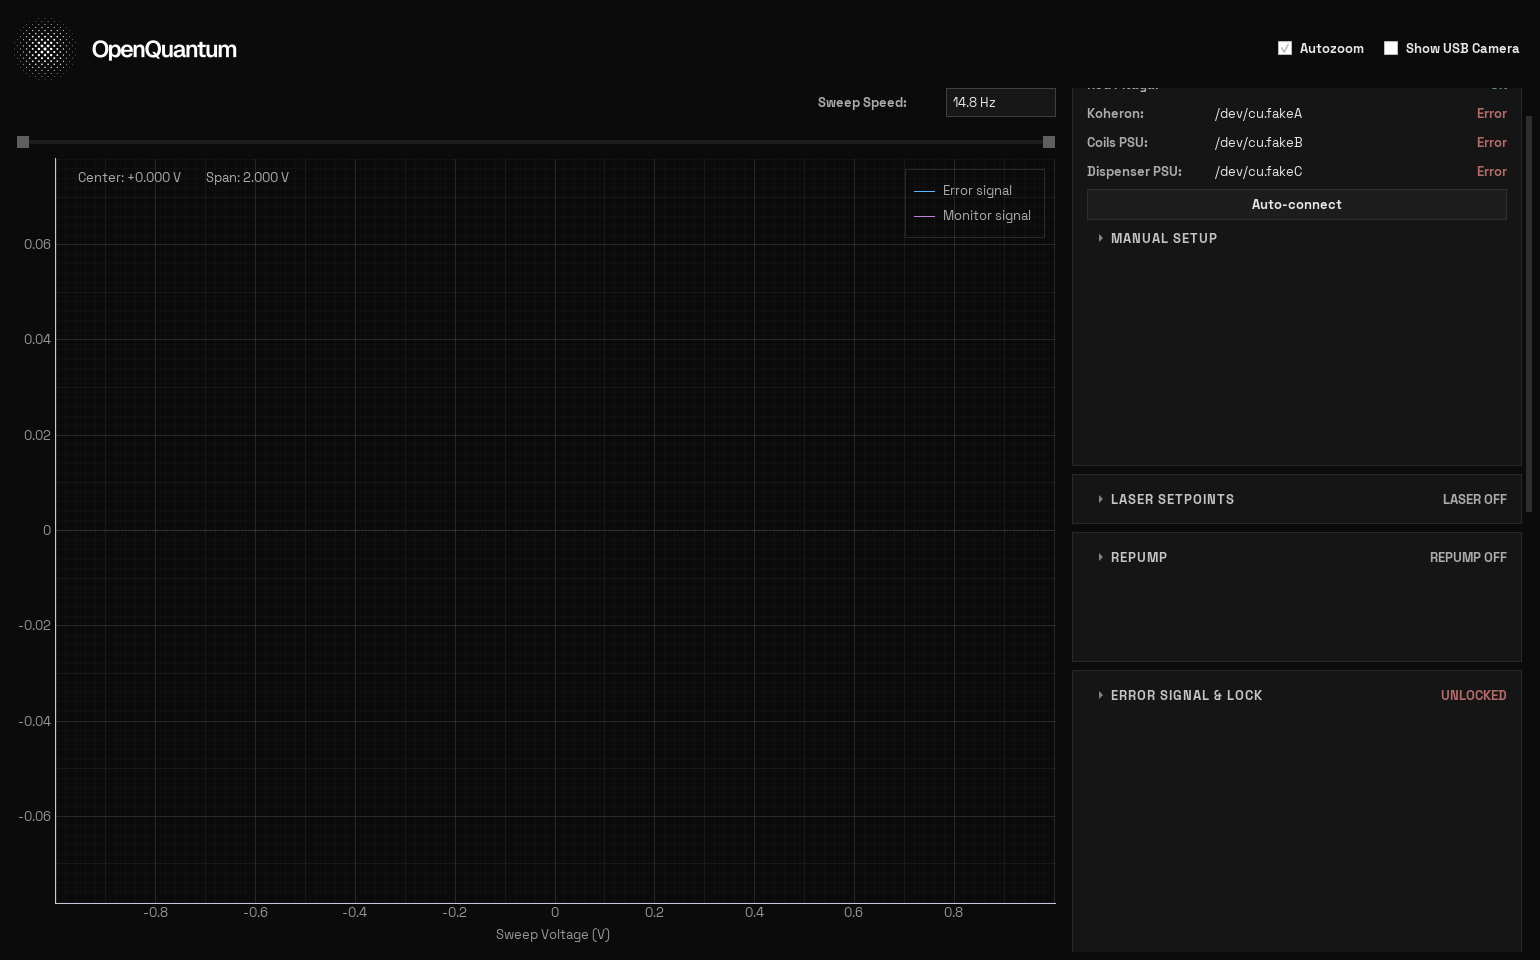
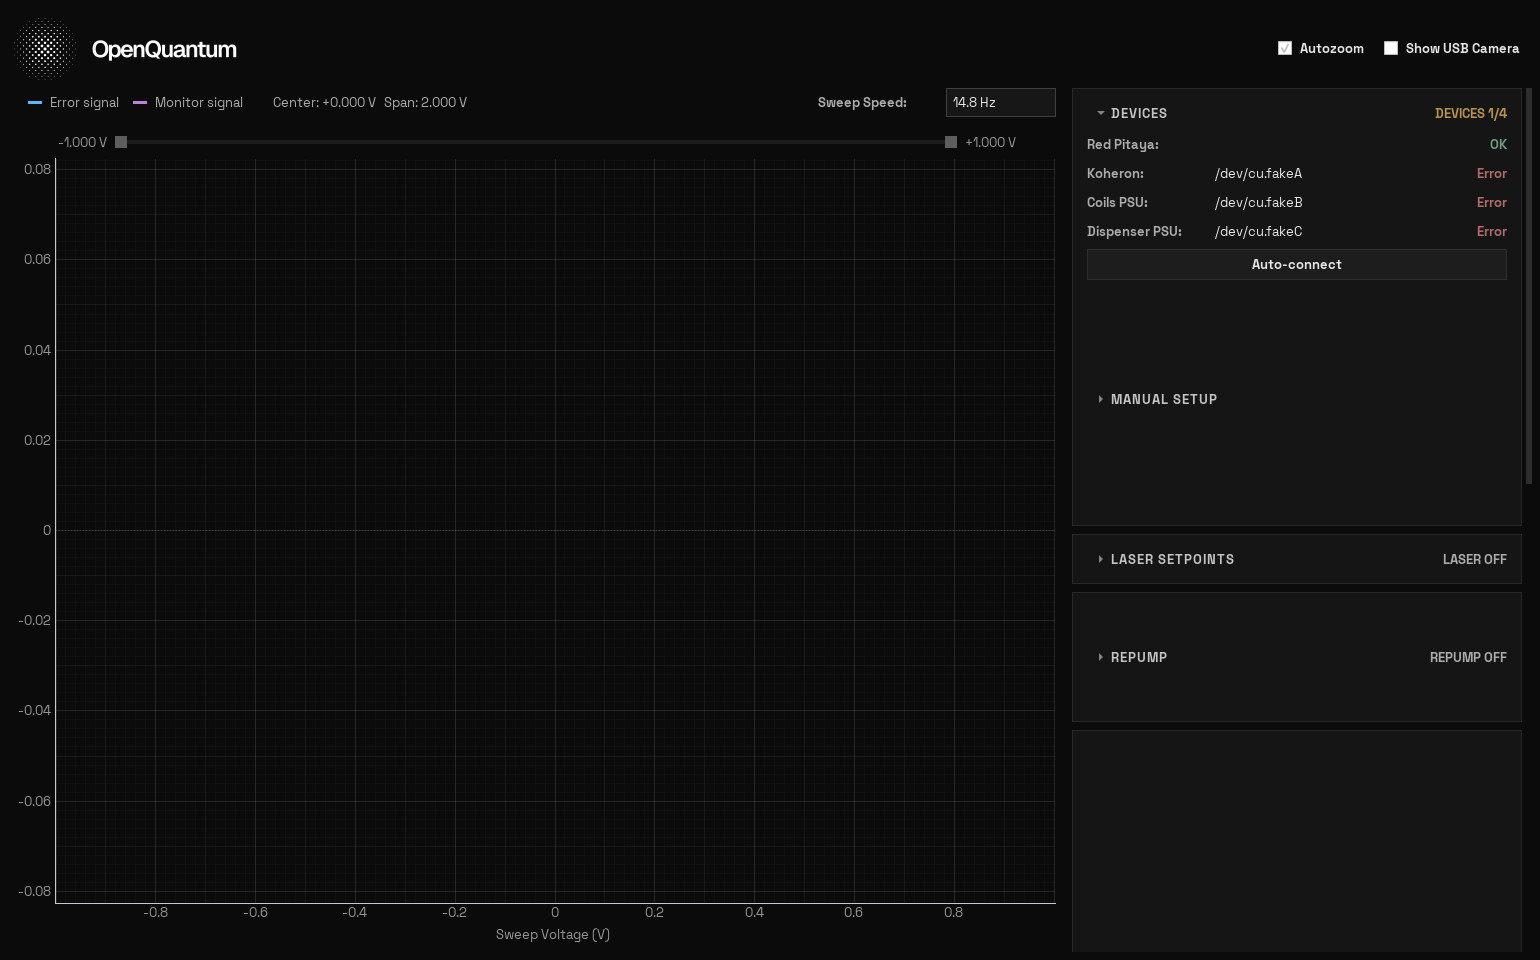
Move the legend and sweep readouts off the plot; label the slider ends
Three things sat on top of the traces: pyqtgraph's legend and the
Center/Span proxy labels. All three move into the bar above, which held
only Sweep Speed, so the plot is left to the data.

The legend is now a small widget whose swatches read the same colour
constants the curve pens use, so a colour change cannot leave the key
stale. Center/Span become plain labels, which leaves
_update_overlay_labels -- the single place that formats them for all
three axis modes -- untouched.

The sweep slider had no scale at all. It is now flanked by the range it
can span, wrapped in a plain widget before being proxied so the labels
track the slider's own width, and labelled in whatever unit the x axis
is using.

The smoke test's wheel-guard check left the sidebar scrolled, which
clipped the top of the reference screenshot; it resets the scroll before
grabbing now.

diff --git a/linien_widget.py b/linien_widget.py
@@ -80,8 +80,38 @@ class LinienWidget(QtWidgets.QWidget):
                 background: #5e5e5e; width: 12px; border-radius: 0px; margin: -4px 0;
             }
         """)
+        # Flank the slider with the range it can span, so its endpoints
+        # mean something. Wrapped in a plain widget rather than proxied
+        # directly, so the labels track the slider's own width.
+        end_style = (
+            "color: #969696; background: transparent;"
+            f"font-size: {UI_FONT_PX}px; border: none;"
+        )
+        self.sweep_min_label = QtWidgets.QLabel()
+        self.sweep_min_label.setStyleSheet(end_style)
+        self.sweep_min_label.setAlignment(
+            QtCore.Qt.AlignRight | QtCore.Qt.AlignVCenter
+        )
+        self.sweep_min_label.setFixedWidth(90)
+        self.sweep_max_label = QtWidgets.QLabel()
+        self.sweep_max_label.setStyleSheet(end_style)
+        self.sweep_max_label.setAlignment(
+            QtCore.Qt.AlignLeft | QtCore.Qt.AlignVCenter
+        )
+        self.sweep_max_label.setFixedWidth(90)
+
+        slider_box = QtWidgets.QWidget()
+        slider_box.setStyleSheet("background: transparent;")
+        slider_row = QtWidgets.QHBoxLayout(slider_box)
+        slider_row.setContentsMargins(0, 0, 0, 0)
+        slider_row.setSpacing(8)
+        slider_row.addWidget(self.sweep_min_label)
+        slider_row.addWidget(self.xrange_slider, stretch=1)
+        slider_row.addWidget(self.sweep_max_label)
+        self._update_sweep_end_labels()
+
         slider_proxy = QtWidgets.QGraphicsProxyWidget()
-        slider_proxy.setWidget(self.xrange_slider)
+        slider_proxy.setWidget(slider_box)
         self.pg_widget.addItem(slider_proxy, row=0, col=0)
         self.xrange_slider.valueChanged.connect(self._update_range)
 
@@ -120,17 +150,15 @@ class LinienWidget(QtWidgets.QWidget):
         self.original_xrange = self.plot.viewRange()[0]
         self.original_yrange = self.plot.viewRange()[1]
 
-        legend = self.plot.addLegend(
-            offset=(-10, 10), labelTextSize=f"{UI_FONT_PX}px"
-        )
-        legend.setLabelTextColor("#ababab")
-        legend.setBrush(pg.mkBrush(11, 11, 11, 200))
-        legend.setPen(pg.mkPen("#282828"))
-
+        # No plot legend: the host places `self.legend` in the bar above,
+        # so nothing sits over the traces.
+        self.ERROR_COLOR = "#5cb8ff"
+        self.MONITOR_COLOR = "#c080e0"
         self.error_curve = self.plot.plot(
-            pen=pg.mkPen("#5cb8ff", width=1.5), name="Error signal")
+            pen=pg.mkPen(self.ERROR_COLOR, width=1.5), name="Error signal")
         self.monitor_curve = self.plot.plot(
-            pen=pg.mkPen("#c080e0", width=1.5), name="Monitor signal")
+            pen=pg.mkPen(self.MONITOR_COLOR, width=1.5), name="Monitor signal")
+        self.legend = self._build_legend()
 
         self.zero_line = pg.InfiniteLine(
             pos=0, angle=0,
@@ -171,27 +199,19 @@ class LinienWidget(QtWidgets.QWidget):
         self.plot.scene().sigMouseMoved.connect(self._selection_mouse_moved)
         self.pg_widget.viewport().installEventFilter(self)
 
-        # --- Overlay labels ---
-        vb = self.plot.getViewBox()
-        overlay_label_style = "color: #ababab; background: transparent; font-size: 13px; border: none;"
-
+        # Centre/span read out in the bar above rather than over the
+        # traces. Plain labels, so _update_overlay_labels -- the one place
+        # that formats these for all three axis modes -- is unchanged.
+        readout_style = (
+            "color: #ababab; background: transparent;"
+            f"font-size: {UI_FONT_PX}px; border: none;"
+        )
         self.center_label = QtWidgets.QLabel("Center: 0.000 V")
-        self.center_label.setStyleSheet(overlay_label_style)
-        self.center_label.setFixedWidth(120)
-        proxy = QtWidgets.QGraphicsProxyWidget(vb)
-        proxy.setWidget(self.center_label)
-        proxy.setZValue(1000)
-        proxy.setPos(22, 10)
-
+        self.center_label.setStyleSheet(readout_style)
         self.span_label = QtWidgets.QLabel("Span: 2.000 V")
-        self.span_label.setStyleSheet(overlay_label_style)
-        self.span_label.setFixedWidth(140)
-        proxy = QtWidgets.QGraphicsProxyWidget(vb)
-        proxy.setWidget(self.span_label)
-        proxy.setZValue(1000)
-        proxy.setPos(150, 10)
+        self.span_label.setStyleSheet(readout_style)
 
-        # Nothing but labels sits over the traces: the lock controls and
+        # Nothing sits over the traces: the lock controls and
         # the autozoom checkbox are handed to the host window.
         # Unparented: the host window places this with its other view
         # controls (see autozoom_check).
@@ -343,6 +363,45 @@ class LinienWidget(QtWidgets.QWidget):
         # mouse-driven zoom/pan to the sweep bounds.
         d_min, d_max = self._v_range_to_display(x_min, x_max)
         self.plot.setXRange(d_min, d_max, padding=0)
+
+    def _build_legend(self):
+        """Trace key for the host to place above the plot.
+
+        The swatches read the curve colours from the same constants the
+        pens use, so a colour change cannot leave the key stale.
+        """
+        box = QtWidgets.QWidget()
+        row = QtWidgets.QHBoxLayout(box)
+        row.setContentsMargins(0, 0, 0, 0)
+        row.setSpacing(8)
+        for color, text in (
+            (self.ERROR_COLOR, "Error signal"),
+            (self.MONITOR_COLOR, "Monitor signal"),
+        ):
+            swatch = QtWidgets.QLabel()
+            swatch.setFixedSize(14, 3)
+            swatch.setStyleSheet(f"background: {color}; border: none;")
+            row.addWidget(swatch, 0, QtCore.Qt.AlignVCenter)
+            label = QtWidgets.QLabel(text)
+            label.setStyleSheet(
+                "color: #ababab; background: transparent;"
+                f"font-size: {UI_FONT_PX}px; border: none;"
+            )
+            row.addWidget(label)
+            row.addSpacing(6)
+        return box
+
+    def _update_sweep_end_labels(self):
+        """Label the slider's limits in whatever unit the x axis uses."""
+        lo, hi = self._v_range_to_display(
+            self._sweep_min_v, self._sweep_max_v
+        )
+        if self._v_to_mhz is not None or self._v_to_freq is not None:
+            self.sweep_min_label.setText(f"{lo:.1f} MHz")
+            self.sweep_max_label.setText(f"{hi:.1f} MHz")
+        else:
+            self.sweep_min_label.setText(f"{lo:+.3f} V")
+            self.sweep_max_label.setText(f"{hi:+.3f} V")
 
     def _update_overlay_labels(self, center_v, amplitude_v):
         """Update the overlay labels with voltage and/or frequency info."""

diff --git a/mot_control.py b/mot_control.py
@@ -1215,6 +1215,10 @@ class OpenQuantumControlsWindow(QtWidgets.QMainWindow):
         sweep_row = QtWidgets.QHBoxLayout()
         sweep_row.setContentsMargins(20, 0, 8, 0)
         sweep_row.setSpacing(8)
+        # The trace key and sweep readouts belong at the left of this row,
+        # but the Linien widget that owns them is built below. Kept here
+        # so they can be inserted once it exists.
+        self._sweep_row = sweep_row
         sweep_row.addStretch()
         sweep_row.addWidget(self._small_label("Sweep Speed:"))
         self.sweep_speed_combo = QtWidgets.QComboBox()
@@ -1263,6 +1267,22 @@ class OpenQuantumControlsWindow(QtWidgets.QMainWindow):
             "the current zoom.",
             self.linien_widget.autozoom_check,
         )
+
+        # Trace key and sweep readouts, at the left of the sweep row.
+        for index, widget in enumerate((
+            self.linien_widget.legend,
+            self.linien_widget.center_label,
+            self.linien_widget.span_label,
+        )):
+            self._sweep_row.insertWidget(index, widget)
+        self._sweep_row.insertSpacing(1, 16)
+        self._tip(
+            "Sweep centre and width, set by the slider above the plot.",
+            self.linien_widget.center_label,
+            self.linien_widget.span_label,
+            help_cursor=True,
+        )
+
         self.camera_widget = CameraViewWidget()
         self.camera_widget.setVisible(False)
         self.main_splitter.addWidget(self.linien_widget)

diff --git a/tests/smoke_ui.py b/tests/smoke_ui.py
@@ -789,6 +789,10 @@ try:
         window.repump_card,
     ):
         card.set_expanded(False)
+    # The wheel-guard check above leaves the column scrolled; put it back
+    # so the reference screenshot is not clipped at the top.
+    window.findChild(QtWidgets.QScrollArea).verticalScrollBar().setValue(0)
+    app.processEvents()
 
     pixmap = window.grab()
     out = os.path.join(ROOT, "mot-ui-smoke.png")
